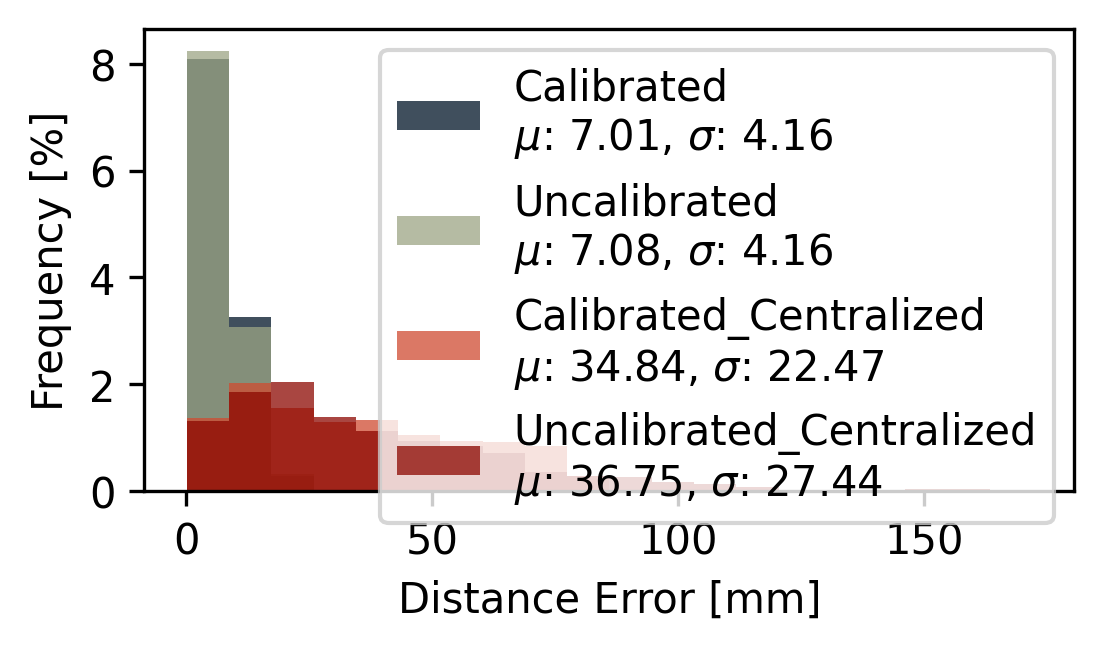
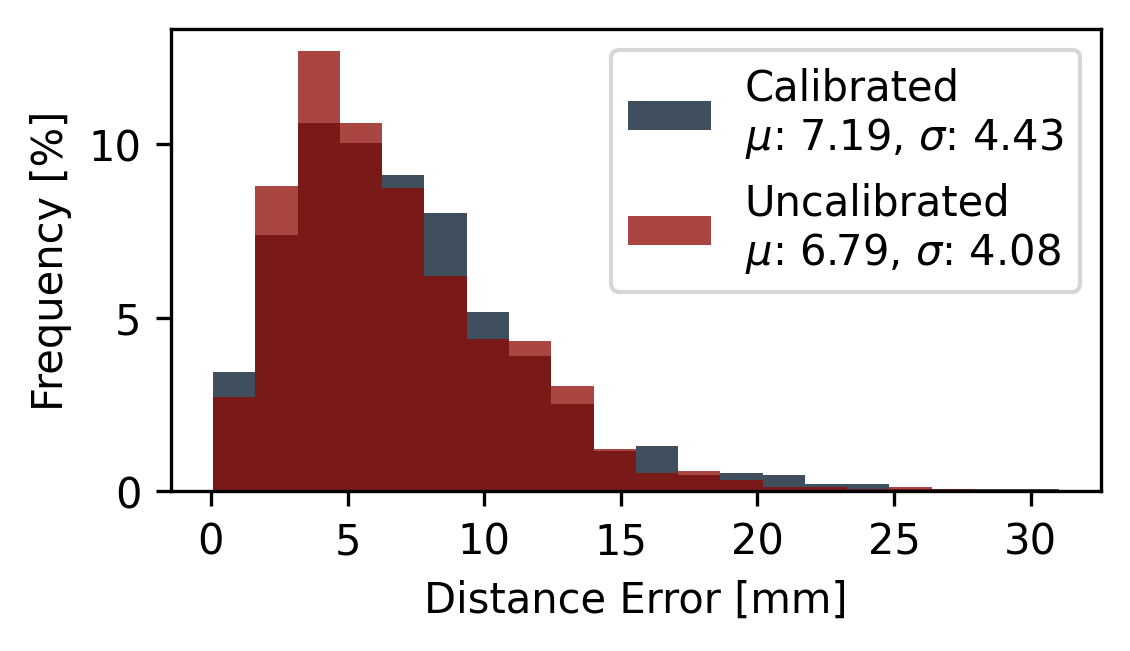
minor in plots

diff --git a/Exp_ResultAnalysis_Performance.py b/Exp_ResultAnalysis_Performance.py
@@ -154,19 +154,19 @@ if __name__ == '__main__':
     
     MODEL_NAMES = [ 'Calibrated',
                     'Uncalibrated',
-                    'Calibrated_Centralized',
-                    'Uncalibrated_Centralized',
+                    #'Calibrated_Centralized',
+                    #'Uncalibrated_Centralized',
                     ]
     
     DATA_NAMES = [  'Calibrated',
                     'Uncalibrated',
-                    'Calibrated',
-                    'Uncalibrated',
+                    #'Calibrated',
+                    #'Uncalibrated',
 ]
     
     RUNS = 1000
     
-    if True:
+    if False:
         for model_name, data_name in zip(MODEL_NAMES, DATA_NAMES):
             data_path = f"Dataset/TestData_{data_name}.pkl"
             with open(data_path, 'rb') as f:

diff --git a/Exp_ResultAnalysis_FaultTolerance.py b/Exp_ResultAnalysis_FaultTolerance.py
@@ -89,8 +89,8 @@ def make_plot(names):
         plt.fill_between(percent_n_faulty_tiles*100, means-stds, means+stds, color=color, alpha=0.3)
         plt.plot(percent_n_faulty_tiles*100, means, label=name, color=color)
     #plt.axhline(_config.TILE_SIZE/2, color='black', linestyle='--', linewidth=1, label='Distance between sensors')
-    plt.legend(loc='upper left', fontsize=8)
-    plt.xlabel('Faulty Tiles [%]')
+    plt.legend(loc='upper left')
+    plt.xlabel('Faulty Agents [%]')
     plt.ylabel('Distance Error [mm]')
     #plt.title('Distance Error Histogram')
     

diff --git a/Exp_Scalability.py b/Exp_Scalability.py
@@ -135,6 +135,7 @@ def some_visuals(model_name:str, board_shape:int, id:int = 0):
     imageio.mimsave(visual_path, frames, fps=60)
 
 def plot_scalability(model_name:str):
+    print(f'Plotting {model_name} results')
     with open(f'{_folders.RESULTS_PATH}/{model_name}_results.json', 'rb') as f:
         results = json.load(f)
 
